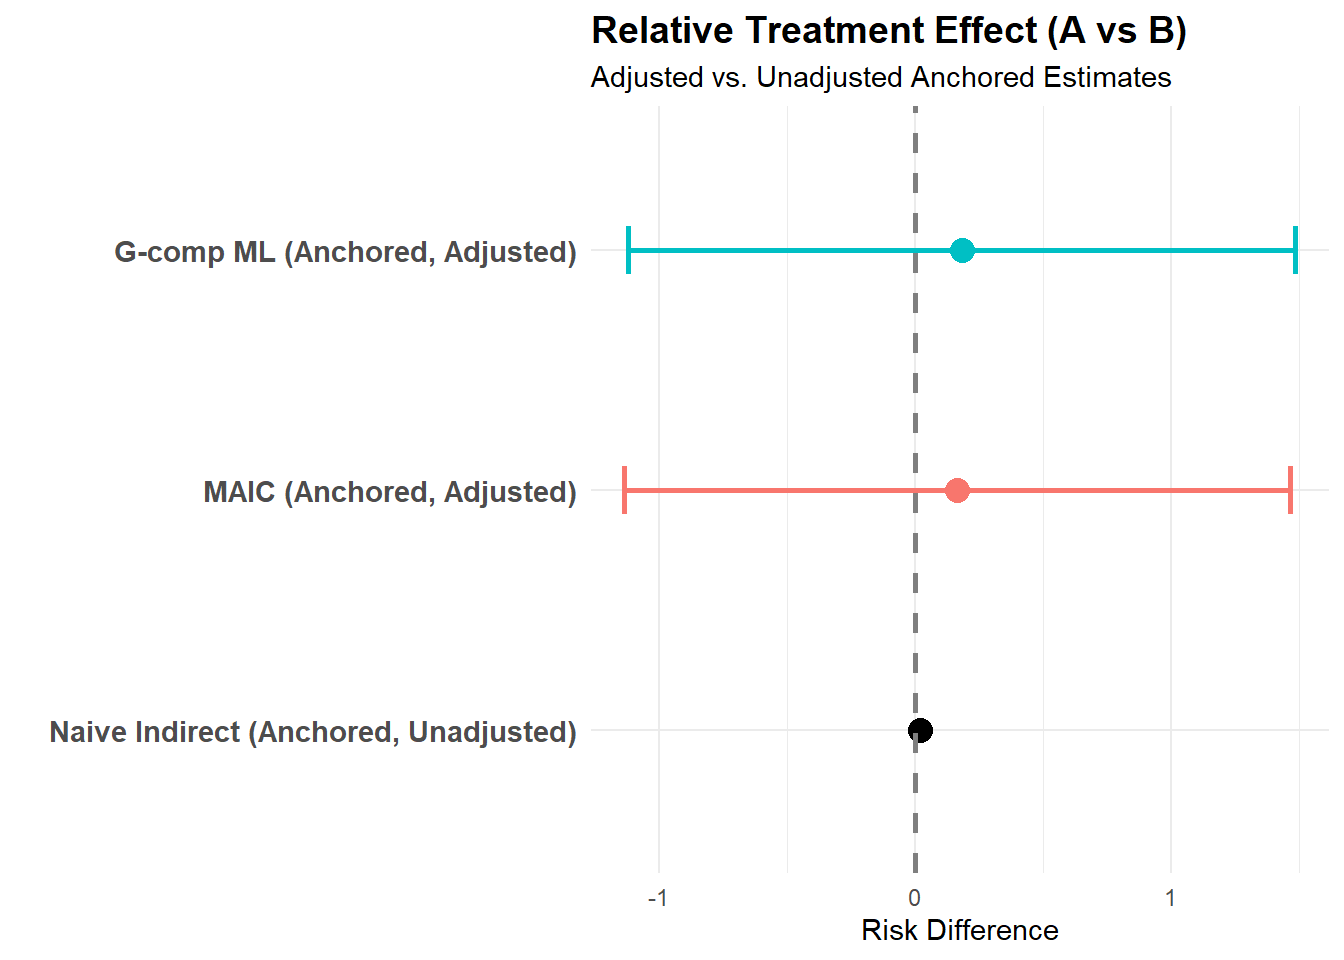
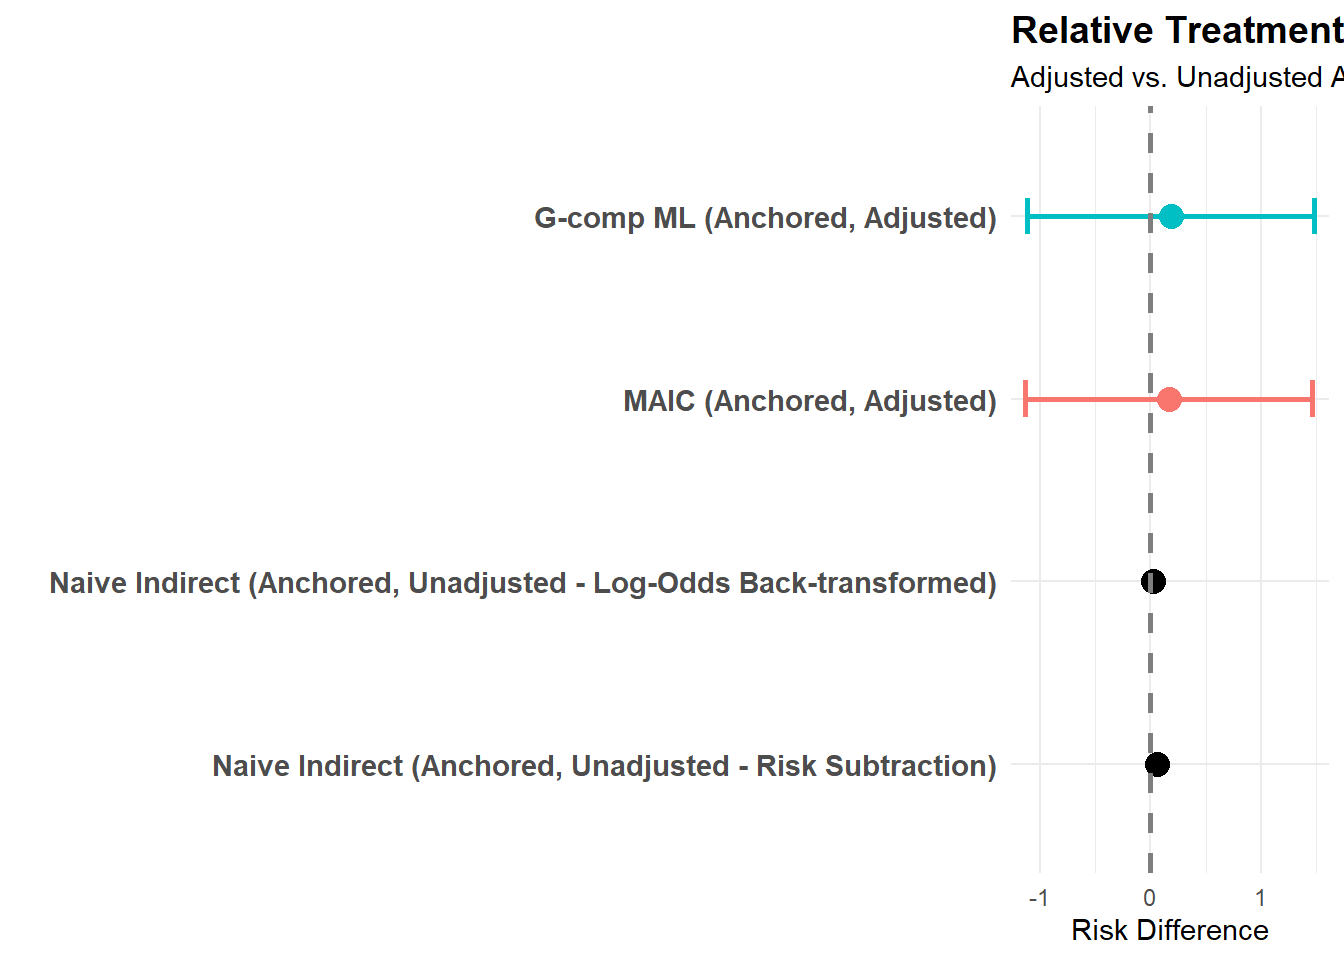
Update Exercise 7 plot to show and label both probability risk subtraction and log-odds back-transformed naive estimates side-by-side

diff --git a/scripts/exercises2.html b/scripts/exercises2.html
@@ -315,8 +315,8 @@ Absolute:
 <pre><code>
 SAMPLING FOR MODEL 'bernoulli' NOW (CHAIN 1).
 Chain 1: 
-Chain 1: Gradient evaluation took 6e-05 seconds
-Chain 1: 1000 transitions using 10 leapfrog steps per transition would take 0.6 seconds.
+Chain 1: Gradient evaluation took 0.000114 seconds
+Chain 1: 1000 transitions using 10 leapfrog steps per transition would take 1.14 seconds.
 Chain 1: Adjust your expectations accordingly!
 Chain 1: 
 Chain 1: 
@@ -327,15 +327,15 @@ Chain 1: Iteration: 1001 / 2000 [ 50%]  (Sampling)
 Chain 1: Iteration: 1500 / 2000 [ 75%]  (Sampling)
 Chain 1: Iteration: 2000 / 2000 [100%]  (Sampling)
 Chain 1: 
-Chain 1:  Elapsed Time: 0.218 seconds (Warm-up)
-Chain 1:                0.204 seconds (Sampling)
-Chain 1:                0.422 seconds (Total)
+Chain 1:  Elapsed Time: 0.287 seconds (Warm-up)
+Chain 1:                0.293 seconds (Sampling)
+Chain 1:                0.58 seconds (Total)
 Chain 1: 
 
 SAMPLING FOR MODEL 'bernoulli' NOW (CHAIN 2).
 Chain 2: 
-Chain 2: Gradient evaluation took 1.7e-05 seconds
-Chain 2: 1000 transitions using 10 leapfrog steps per transition would take 0.17 seconds.
+Chain 2: Gradient evaluation took 2.1e-05 seconds
+Chain 2: 1000 transitions using 10 leapfrog steps per transition would take 0.21 seconds.
 Chain 2: Adjust your expectations accordingly!
 Chain 2: 
 Chain 2: 
@@ -346,9 +346,9 @@ Chain 2: Iteration: 1001 / 2000 [ 50%]  (Sampling)
 Chain 2: Iteration: 1500 / 2000 [ 75%]  (Sampling)
 Chain 2: Iteration: 2000 / 2000 [100%]  (Sampling)
 Chain 2: 
-Chain 2:  Elapsed Time: 0.213 seconds (Warm-up)
-Chain 2:                0.202 seconds (Sampling)
-Chain 2:                0.415 seconds (Total)
+Chain 2:  Elapsed Time: 0.261 seconds (Warm-up)
+Chain 2:                0.246 seconds (Sampling)
+Chain 2:                0.507 seconds (Total)
 Chain 2: </code></pre>
 </div>
 </details>
@@ -369,8 +369,8 @@ Chain 2: </code></pre>
 <pre><code>
 SAMPLING FOR MODEL 'bernoulli' NOW (CHAIN 1).
 Chain 1: 
-Chain 1: Gradient evaluation took 3.2e-05 seconds
-Chain 1: 1000 transitions using 10 leapfrog steps per transition would take 0.32 seconds.
+Chain 1: Gradient evaluation took 2.6e-05 seconds
+Chain 1: 1000 transitions using 10 leapfrog steps per transition would take 0.26 seconds.
 Chain 1: Adjust your expectations accordingly!
 Chain 1: 
 Chain 1: 
@@ -387,15 +387,15 @@ Chain 1: Iteration: 1600 / 2000 [ 80%]  (Sampling)
 Chain 1: Iteration: 1800 / 2000 [ 90%]  (Sampling)
 Chain 1: Iteration: 2000 / 2000 [100%]  (Sampling)
 Chain 1: 
-Chain 1:  Elapsed Time: 0.228 seconds (Warm-up)
-Chain 1:                0.205 seconds (Sampling)
-Chain 1:                0.433 seconds (Total)
+Chain 1:  Elapsed Time: 0.281 seconds (Warm-up)
+Chain 1:                0.253 seconds (Sampling)
+Chain 1:                0.534 seconds (Total)
 Chain 1: 
 
 SAMPLING FOR MODEL 'bernoulli' NOW (CHAIN 2).
 Chain 2: 
-Chain 2: Gradient evaluation took 1.7e-05 seconds
-Chain 2: 1000 transitions using 10 leapfrog steps per transition would take 0.17 seconds.
+Chain 2: Gradient evaluation took 2e-05 seconds
+Chain 2: 1000 transitions using 10 leapfrog steps per transition would take 0.2 seconds.
 Chain 2: Adjust your expectations accordingly!
 Chain 2: 
 Chain 2: 
@@ -412,9 +412,9 @@ Chain 2: Iteration: 1600 / 2000 [ 80%]  (Sampling)
 Chain 2: Iteration: 1800 / 2000 [ 90%]  (Sampling)
 Chain 2: Iteration: 2000 / 2000 [100%]  (Sampling)
 Chain 2: 
-Chain 2:  Elapsed Time: 0.21 seconds (Warm-up)
-Chain 2:                0.215 seconds (Sampling)
-Chain 2:                0.425 seconds (Total)
+Chain 2:  Elapsed Time: 0.261 seconds (Warm-up)
+Chain 2:                0.258 seconds (Sampling)
+Chain 2:                0.519 seconds (Total)
 Chain 2: </code></pre>
 </div>
 </details>
@@ -570,8 +570,8 @@ Absolute:
 <pre><code>
 SAMPLING FOR MODEL 'bernoulli' NOW (CHAIN 1).
 Chain 1: 
-Chain 1: Gradient evaluation took 2.5e-05 seconds
-Chain 1: 1000 transitions using 10 leapfrog steps per transition would take 0.25 seconds.
+Chain 1: Gradient evaluation took 2.8e-05 seconds
+Chain 1: 1000 transitions using 10 leapfrog steps per transition would take 0.28 seconds.
 Chain 1: Adjust your expectations accordingly!
 Chain 1: 
 Chain 1: 
@@ -582,15 +582,15 @@ Chain 1: Iteration: 1001 / 2000 [ 50%]  (Sampling)
 Chain 1: Iteration: 1500 / 2000 [ 75%]  (Sampling)
 Chain 1: Iteration: 2000 / 2000 [100%]  (Sampling)
 Chain 1: 
-Chain 1:  Elapsed Time: 0.219 seconds (Warm-up)
-Chain 1:                0.203 seconds (Sampling)
-Chain 1:                0.422 seconds (Total)
+Chain 1:  Elapsed Time: 0.269 seconds (Warm-up)
+Chain 1:                0.252 seconds (Sampling)
+Chain 1:                0.521 seconds (Total)
 Chain 1: 
 
 SAMPLING FOR MODEL 'bernoulli' NOW (CHAIN 2).
 Chain 2: 
-Chain 2: Gradient evaluation took 1.7e-05 seconds
-Chain 2: 1000 transitions using 10 leapfrog steps per transition would take 0.17 seconds.
+Chain 2: Gradient evaluation took 2.2e-05 seconds
+Chain 2: 1000 transitions using 10 leapfrog steps per transition would take 0.22 seconds.
 Chain 2: Adjust your expectations accordingly!
 Chain 2: 
 Chain 2: 
@@ -601,9 +601,9 @@ Chain 2: Iteration: 1001 / 2000 [ 50%]  (Sampling)
 Chain 2: Iteration: 1500 / 2000 [ 75%]  (Sampling)
 Chain 2: Iteration: 2000 / 2000 [100%]  (Sampling)
 Chain 2: 
-Chain 2:  Elapsed Time: 0.21 seconds (Warm-up)
-Chain 2:                0.202 seconds (Sampling)
-Chain 2:                0.412 seconds (Total)
+Chain 2:  Elapsed Time: 0.278 seconds (Warm-up)
+Chain 2:                0.259 seconds (Sampling)
+Chain 2:                0.537 seconds (Total)
 Chain 2: </code></pre>
 </div>
 </details>
@@ -659,8 +659,8 @@ Absolute:
 <pre><code>
 SAMPLING FOR MODEL 'bernoulli' NOW (CHAIN 1).
 Chain 1: 
-Chain 1: Gradient evaluation took 3.9e-05 seconds
-Chain 1: 1000 transitions using 10 leapfrog steps per transition would take 0.39 seconds.
+Chain 1: Gradient evaluation took 2.6e-05 seconds
+Chain 1: 1000 transitions using 10 leapfrog steps per transition would take 0.26 seconds.
 Chain 1: Adjust your expectations accordingly!
 Chain 1: 
 Chain 1: 
@@ -677,15 +677,15 @@ Chain 1: Iteration: 1600 / 2000 [ 80%]  (Sampling)
 Chain 1: Iteration: 1800 / 2000 [ 90%]  (Sampling)
 Chain 1: Iteration: 2000 / 2000 [100%]  (Sampling)
 Chain 1: 
-Chain 1:  Elapsed Time: 0.225 seconds (Warm-up)
-Chain 1:                0.205 seconds (Sampling)
-Chain 1:                0.43 seconds (Total)
+Chain 1:  Elapsed Time: 0.283 seconds (Warm-up)
+Chain 1:                0.254 seconds (Sampling)
+Chain 1:                0.537 seconds (Total)
 Chain 1: 
 
 SAMPLING FOR MODEL 'bernoulli' NOW (CHAIN 2).
 Chain 2: 
-Chain 2: Gradient evaluation took 1.7e-05 seconds
-Chain 2: 1000 transitions using 10 leapfrog steps per transition would take 0.17 seconds.
+Chain 2: Gradient evaluation took 2.2e-05 seconds
+Chain 2: 1000 transitions using 10 leapfrog steps per transition would take 0.22 seconds.
 Chain 2: Adjust your expectations accordingly!
 Chain 2: 
 Chain 2: 
@@ -702,9 +702,9 @@ Chain 2: Iteration: 1600 / 2000 [ 80%]  (Sampling)
 Chain 2: Iteration: 1800 / 2000 [ 90%]  (Sampling)
 Chain 2: Iteration: 2000 / 2000 [100%]  (Sampling)
 Chain 2: 
-Chain 2:  Elapsed Time: 0.205 seconds (Warm-up)
-Chain 2:                0.217 seconds (Sampling)
-Chain 2:                0.422 seconds (Total)
+Chain 2:  Elapsed Time: 0.259 seconds (Warm-up)
+Chain 2:                0.264 seconds (Sampling)
+Chain 2:                0.523 seconds (Total)
 Chain 2: </code></pre>
 </div>
 </details>
@@ -830,7 +830,7 @@ Tip
 <span id="cb30-11"><a href="#cb30-11" aria-hidden="true" tabindex="-1"></a>  <span class="fu">pull</span>(value)</span>
 <span id="cb30-12"><a href="#cb30-12" aria-hidden="true" tabindex="-1"></a></span>
 <span id="cb30-13"><a href="#cb30-13" aria-hidden="true" tabindex="-1"></a><span class="co"># 3. Naive Anchored Risk Difference</span></span>
-<span id="cb30-14"><a href="#cb30-14" aria-hidden="true" tabindex="-1"></a><span class="co"># Explicit manual calculation (direct subtraction):</span></span>
+<span id="cb30-14"><a href="#cb30-14" aria-hidden="true" tabindex="-1"></a><span class="co"># Explicit manual calculation (direct subtraction on probability scale):</span></span>
 <span id="cb30-15"><a href="#cb30-15" aria-hidden="true" tabindex="-1"></a>naive_anchored_rd_explicit <span class="ot">&lt;-</span> (prob_A_raw <span class="sc">-</span> prob_C_raw_AC) <span class="sc">-</span> (prob_B_raw <span class="sc">-</span> prob_C_raw_BC)</span>
 <span id="cb30-16"><a href="#cb30-16" aria-hidden="true" tabindex="-1"></a></span>
 <span id="cb30-17"><a href="#cb30-17" aria-hidden="true" tabindex="-1"></a><span class="co"># Or using outstandR's built-in calc_bucher_naive() function:</span></span>
@@ -843,11 +843,11 @@ Tip
 <span id="cb30-24"><a href="#cb30-24" aria-hidden="true" tabindex="-1"></a>  <span class="at">ref_trt =</span> <span class="st">"C"</span>,</span>
 <span id="cb30-25"><a href="#cb30-25" aria-hidden="true" tabindex="-1"></a>  <span class="at">scale =</span> <span class="st">"risk_difference"</span></span>
 <span id="cb30-26"><a href="#cb30-26" aria-hidden="true" tabindex="-1"></a>)</span>
-<span id="cb30-27"><a href="#cb30-27" aria-hidden="true" tabindex="-1"></a>naive_anchored_rd <span class="ot">&lt;-</span> naive_results_pkg<span class="sc">$</span>Estimate</span>
+<span id="cb30-27"><a href="#cb30-27" aria-hidden="true" tabindex="-1"></a>naive_anchored_rd_pkg <span class="ot">&lt;-</span> naive_results_pkg<span class="sc">$</span>Estimate</span>
 <span id="cb30-28"><a href="#cb30-28" aria-hidden="true" tabindex="-1"></a></span>
 <span id="cb30-29"><a href="#cb30-29" aria-hidden="true" tabindex="-1"></a><span class="co"># Note: You can also extract this directly from any of the outstandR output objects</span></span>
 <span id="cb30-30"><a href="#cb30-30" aria-hidden="true" tabindex="-1"></a><span class="co"># since the naive Bucher comparison is run automatically under the hood:</span></span>
-<span id="cb30-31"><a href="#cb30-31" aria-hidden="true" tabindex="-1"></a><span class="co"># naive_anchored_rd &lt;- out_maic_rd$naive$Estimate</span></span>
+<span id="cb30-31"><a href="#cb30-31" aria-hidden="true" tabindex="-1"></a><span class="co"># naive_anchored_rd_pkg &lt;- out_maic_rd$naive$Estimate</span></span>
 <span id="cb30-32"><a href="#cb30-32" aria-hidden="true" tabindex="-1"></a></span>
 <span id="cb30-33"><a href="#cb30-33" aria-hidden="true" tabindex="-1"></a><span class="co"># 4. Extract and bind results</span></span>
 <span id="cb30-34"><a href="#cb30-34" aria-hidden="true" tabindex="-1"></a>adjusted_results <span class="ot">&lt;-</span> <span class="fu">data.frame</span>(</span>
@@ -859,22 +859,31 @@ Tip
 <span id="cb30-40"><a href="#cb30-40" aria-hidden="true" tabindex="-1"></a>               out_gcomp_ml_rd<span class="sc">$</span>results<span class="sc">$</span>contrasts<span class="sc">$</span>CI<span class="sc">$</span>AB[<span class="dv">2</span>]), </span>
 <span id="cb30-41"><a href="#cb30-41" aria-hidden="true" tabindex="-1"></a>  <span class="at">Method =</span> <span class="fu">c</span>(<span class="st">"MAIC (Anchored, Adjusted)"</span>, <span class="st">"G-comp ML (Anchored, Adjusted)"</span>))</span>
 <span id="cb30-42"><a href="#cb30-42" aria-hidden="true" tabindex="-1"></a></span>
-<span id="cb30-43"><a href="#cb30-43" aria-hidden="true" tabindex="-1"></a>naive_result <span class="ot">&lt;-</span> <span class="fu">data.frame</span>(</span>
+<span id="cb30-43"><a href="#cb30-43" aria-hidden="true" tabindex="-1"></a>naive_result_explicit <span class="ot">&lt;-</span> <span class="fu">data.frame</span>(</span>
 <span id="cb30-44"><a href="#cb30-44" aria-hidden="true" tabindex="-1"></a>  <span class="at">Treatments =</span> <span class="st">"AB"</span>,</span>
-<span id="cb30-45"><a href="#cb30-45" aria-hidden="true" tabindex="-1"></a>  <span class="at">Estimate =</span> naive_anchored_rd,</span>
+<span id="cb30-45"><a href="#cb30-45" aria-hidden="true" tabindex="-1"></a>  <span class="at">Estimate =</span> naive_anchored_rd_explicit,</span>
 <span id="cb30-46"><a href="#cb30-46" aria-hidden="true" tabindex="-1"></a>  <span class="st">`</span><span class="at">Std. Error</span><span class="st">`</span> <span class="ot">=</span> <span class="cn">NA</span>, <span class="at">lower.0.95 =</span> <span class="cn">NA</span>, <span class="at">upper.0.95 =</span> <span class="cn">NA</span>,</span>
-<span id="cb30-47"><a href="#cb30-47" aria-hidden="true" tabindex="-1"></a>  <span class="at">Method =</span> <span class="st">"Naive Indirect (Anchored, Unadjusted)"</span>,</span>
+<span id="cb30-47"><a href="#cb30-47" aria-hidden="true" tabindex="-1"></a>  <span class="at">Method =</span> <span class="st">"Naive Indirect (Anchored, Unadjusted - Risk Subtraction)"</span>,</span>
 <span id="cb30-48"><a href="#cb30-48" aria-hidden="true" tabindex="-1"></a>  <span class="at">check.names =</span> <span class="cn">FALSE</span></span>
 <span id="cb30-49"><a href="#cb30-49" aria-hidden="true" tabindex="-1"></a>)</span>
 <span id="cb30-50"><a href="#cb30-50" aria-hidden="true" tabindex="-1"></a></span>
-<span id="cb30-51"><a href="#cb30-51" aria-hidden="true" tabindex="-1"></a>all_results_intro <span class="ot">&lt;-</span> <span class="fu">bind_rows</span>(adjusted_results, naive_result)</span>
-<span id="cb30-52"><a href="#cb30-52" aria-hidden="true" tabindex="-1"></a></span>
-<span id="cb30-53"><a href="#cb30-53" aria-hidden="true" tabindex="-1"></a><span class="co"># Order the factor for plotting</span></span>
-<span id="cb30-54"><a href="#cb30-54" aria-hidden="true" tabindex="-1"></a>all_results_intro<span class="sc">$</span>Method <span class="ot">&lt;-</span> <span class="fu">factor</span>(all_results_intro<span class="sc">$</span>Method, <span class="at">levels =</span> <span class="fu">c</span>(</span>
-<span id="cb30-55"><a href="#cb30-55" aria-hidden="true" tabindex="-1"></a>  <span class="st">"Naive Indirect (Anchored, Unadjusted)"</span>,</span>
-<span id="cb30-56"><a href="#cb30-56" aria-hidden="true" tabindex="-1"></a>  <span class="st">"MAIC (Anchored, Adjusted)"</span>,</span>
-<span id="cb30-57"><a href="#cb30-57" aria-hidden="true" tabindex="-1"></a>  <span class="st">"G-comp ML (Anchored, Adjusted)"</span></span>
-<span id="cb30-58"><a href="#cb30-58" aria-hidden="true" tabindex="-1"></a>))</span></code><button title="Copy to Clipboard" class="code-copy-button"><i class="bi"></i></button></pre></div>
+<span id="cb30-51"><a href="#cb30-51" aria-hidden="true" tabindex="-1"></a>naive_result_pkg <span class="ot">&lt;-</span> <span class="fu">data.frame</span>(</span>
+<span id="cb30-52"><a href="#cb30-52" aria-hidden="true" tabindex="-1"></a>  <span class="at">Treatments =</span> <span class="st">"AB"</span>,</span>
+<span id="cb30-53"><a href="#cb30-53" aria-hidden="true" tabindex="-1"></a>  <span class="at">Estimate =</span> naive_anchored_rd_pkg,</span>
+<span id="cb30-54"><a href="#cb30-54" aria-hidden="true" tabindex="-1"></a>  <span class="st">`</span><span class="at">Std. Error</span><span class="st">`</span> <span class="ot">=</span> <span class="cn">NA</span>, <span class="at">lower.0.95 =</span> <span class="cn">NA</span>, <span class="at">upper.0.95 =</span> <span class="cn">NA</span>,</span>
+<span id="cb30-55"><a href="#cb30-55" aria-hidden="true" tabindex="-1"></a>  <span class="at">Method =</span> <span class="st">"Naive Indirect (Anchored, Unadjusted - Log-Odds Back-transformed)"</span>,</span>
+<span id="cb30-56"><a href="#cb30-56" aria-hidden="true" tabindex="-1"></a>  <span class="at">check.names =</span> <span class="cn">FALSE</span></span>
+<span id="cb30-57"><a href="#cb30-57" aria-hidden="true" tabindex="-1"></a>)</span>
+<span id="cb30-58"><a href="#cb30-58" aria-hidden="true" tabindex="-1"></a></span>
+<span id="cb30-59"><a href="#cb30-59" aria-hidden="true" tabindex="-1"></a>all_results_intro <span class="ot">&lt;-</span> <span class="fu">bind_rows</span>(adjusted_results, naive_result_explicit, naive_result_pkg)</span>
+<span id="cb30-60"><a href="#cb30-60" aria-hidden="true" tabindex="-1"></a></span>
+<span id="cb30-61"><a href="#cb30-61" aria-hidden="true" tabindex="-1"></a><span class="co"># Order the factor for plotting</span></span>
+<span id="cb30-62"><a href="#cb30-62" aria-hidden="true" tabindex="-1"></a>all_results_intro<span class="sc">$</span>Method <span class="ot">&lt;-</span> <span class="fu">factor</span>(all_results_intro<span class="sc">$</span>Method, <span class="at">levels =</span> <span class="fu">c</span>(</span>
+<span id="cb30-63"><a href="#cb30-63" aria-hidden="true" tabindex="-1"></a>  <span class="st">"Naive Indirect (Anchored, Unadjusted - Risk Subtraction)"</span>,</span>
+<span id="cb30-64"><a href="#cb30-64" aria-hidden="true" tabindex="-1"></a>  <span class="st">"Naive Indirect (Anchored, Unadjusted - Log-Odds Back-transformed)"</span>,</span>
+<span id="cb30-65"><a href="#cb30-65" aria-hidden="true" tabindex="-1"></a>  <span class="st">"MAIC (Anchored, Adjusted)"</span>,</span>
+<span id="cb30-66"><a href="#cb30-66" aria-hidden="true" tabindex="-1"></a>  <span class="st">"G-comp ML (Anchored, Adjusted)"</span></span>
+<span id="cb30-67"><a href="#cb30-67" aria-hidden="true" tabindex="-1"></a>))</span></code><button title="Copy to Clipboard" class="code-copy-button"><i class="bi"></i></button></pre></div>
 </div>
 </section>
 <section id="build-the-forest-plot" class="level1">
@@ -1020,8 +1029,8 @@ Absolute:
 <pre><code>
 SAMPLING FOR MODEL 'continuous' NOW (CHAIN 1).
 Chain 1: 
-Chain 1: Gradient evaluation took 4.7e-05 seconds
-Chain 1: 1000 transitions using 10 leapfrog steps per transition would take 0.47 seconds.
+Chain 1: Gradient evaluation took 4.8e-05 seconds
+Chain 1: 1000 transitions using 10 leapfrog steps per transition would take 0.48 seconds.
 Chain 1: Adjust your expectations accordingly!
 Chain 1: 
 Chain 1: 
@@ -1032,15 +1041,15 @@ Chain 1: Iteration: 1001 / 2000 [ 50%]  (Sampling)
 Chain 1: Iteration: 1500 / 2000 [ 75%]  (Sampling)
 Chain 1: Iteration: 2000 / 2000 [100%]  (Sampling)
 Chain 1: 
-Chain 1:  Elapsed Time: 0.077 seconds (Warm-up)
-Chain 1:                0.085 seconds (Sampling)
-Chain 1:                0.162 seconds (Total)
+Chain 1:  Elapsed Time: 0.09 seconds (Warm-up)
+Chain 1:                0.098 seconds (Sampling)
+Chain 1:                0.188 seconds (Total)
 Chain 1: 
 
 SAMPLING FOR MODEL 'continuous' NOW (CHAIN 2).
 Chain 2: 
-Chain 2: Gradient evaluation took 9e-06 seconds
-Chain 2: 1000 transitions using 10 leapfrog steps per transition would take 0.09 seconds.
+Chain 2: Gradient evaluation took 3.4e-05 seconds
+Chain 2: 1000 transitions using 10 leapfrog steps per transition would take 0.34 seconds.
 Chain 2: Adjust your expectations accordingly!
 Chain 2: 
 Chain 2: 
@@ -1051,9 +1060,9 @@ Chain 2: Iteration: 1001 / 2000 [ 50%]  (Sampling)
 Chain 2: Iteration: 1500 / 2000 [ 75%]  (Sampling)
 Chain 2: Iteration: 2000 / 2000 [100%]  (Sampling)
 Chain 2: 
-Chain 2:  Elapsed Time: 0.072 seconds (Warm-up)
-Chain 2:                0.087 seconds (Sampling)
-Chain 2:                0.159 seconds (Total)
+Chain 2:  Elapsed Time: 0.087 seconds (Warm-up)
+Chain 2:                0.102 seconds (Sampling)
+Chain 2:                0.189 seconds (Total)
 Chain 2: </code></pre>
 </div>
 </details>
@@ -1093,15 +1102,15 @@ Chain 1: Iteration: 1600 / 2000 [ 80%]  (Sampling)
 Chain 1: Iteration: 1800 / 2000 [ 90%]  (Sampling)
 Chain 1: Iteration: 2000 / 2000 [100%]  (Sampling)
 Chain 1: 
-Chain 1:  Elapsed Time: 0.08 seconds (Warm-up)
-Chain 1:                0.082 seconds (Sampling)
-Chain 1:                0.162 seconds (Total)
+Chain 1:  Elapsed Time: 0.095 seconds (Warm-up)
+Chain 1:                0.096 seconds (Sampling)
+Chain 1:                0.191 seconds (Total)
 Chain 1: 
 
 SAMPLING FOR MODEL 'continuous' NOW (CHAIN 2).
 Chain 2: 
-Chain 2: Gradient evaluation took 1.1e-05 seconds
-Chain 2: 1000 transitions using 10 leapfrog steps per transition would take 0.11 seconds.
+Chain 2: Gradient evaluation took 1.2e-05 seconds
+Chain 2: 1000 transitions using 10 leapfrog steps per transition would take 0.12 seconds.
 Chain 2: Adjust your expectations accordingly!
 Chain 2: 
 Chain 2: 
@@ -1118,9 +1127,9 @@ Chain 2: Iteration: 1600 / 2000 [ 80%]  (Sampling)
 Chain 2: Iteration: 1800 / 2000 [ 90%]  (Sampling)
 Chain 2: Iteration: 2000 / 2000 [100%]  (Sampling)
 Chain 2: 
-Chain 2:  Elapsed Time: 0.082 seconds (Warm-up)
-Chain 2:                0.093 seconds (Sampling)
-Chain 2:                0.175 seconds (Total)
+Chain 2:  Elapsed Time: 0.097 seconds (Warm-up)
+Chain 2:                0.105 seconds (Sampling)
+Chain 2:                0.202 seconds (Total)
 Chain 2: </code></pre>
 </div>
 </details>